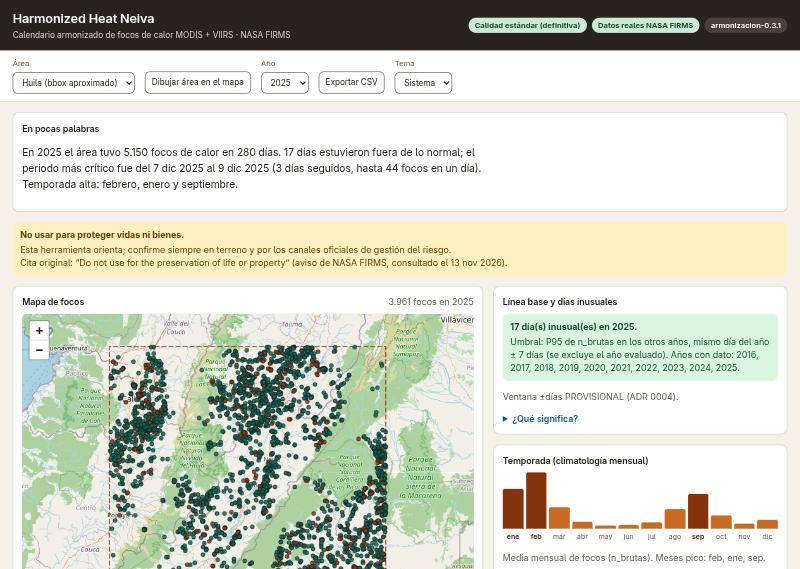
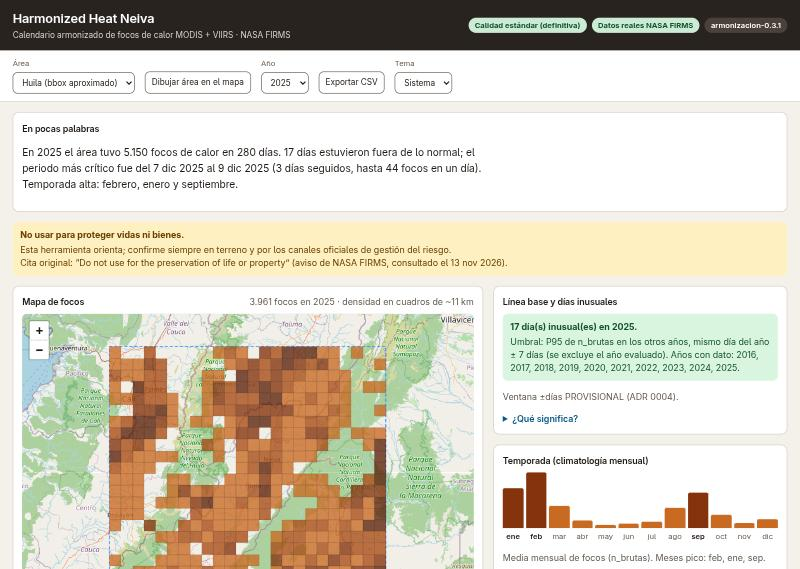
Retoma las capturas con la rejilla de densidad del mapa

diff --git a/docs/capturas/LEEME.md b/docs/capturas/LEEME.md
@@ -16,7 +16,7 @@ Para regenerarlas: `make api` y abrir http://127.0.0.1:8000. Para la cuarta: `uv
 
 Las cuatro capturas anteriores muestran la interfaz H4: solo tema claro y sin insignia de origen de los datos. **Deben retomarse** con la interfaz H6 (tema claro y oscuro, insignia de origen, resumen en lenguaje sencillo y calendario accesible).
 
-Las capturas con datos reales de la sección final (`05_real_*` a `08_real_*`) ya muestran la interfaz H6. De los nombres previstos en esta tabla, `06_datos_reales_*` ya está cubierto por `05_real_claro.jpg` y `06_real_oscuro.jpg`; `05_movil_375_*` es para la demo sintética: al tomarlas, usa otro prefijo numérico (p. ej. `09_`) para no confundirlas con las existentes. Las capturas `05`–`08` son anteriores a la rejilla de densidad del mapa (auditoría UI/UX): conviene retomarlas antes de presentar.
+Las capturas con datos reales de la sección final (`05_real_*` a `08_real_*`) ya muestran la interfaz H6. De los nombres previstos en esta tabla, `06_datos_reales_*` ya está cubierto por `05_real_claro.jpg` y `06_real_oscuro.jpg`; `05_movil_375_*` es para la demo sintética: al tomarlas, usa otro prefijo numérico (p. ej. `10_`) para no confundirlas con las existentes. Las capturas `05`–`09` se retomaron el 2026-11-14 con la rejilla de densidad del mapa (auditoría UI/UX).
 
 | archivo | qué muestra | estado |
 |---|---|---|
@@ -40,13 +40,16 @@ Las capturas con datos reales de la sección final (`05_real_*` a `08_real_*`) y
 - **Datos.** `05` y `01`–`04` con `make api` (datos sintéticos, insignia «DATOS SINTÉTICOS (demostración)»). Para `06`, `make api-real` en otra terminal, con `data/processed/huila_real` ya generado.
 - **Registro en cada archivo.** Anotar la fecha de la captura, la versión de reglas que muestra la insignia (`armonizacion-0.3.1` o la que aparezca) y el origen de los datos (sintético o real NASA FIRMS). Añadir estos datos en la tabla de arriba al completar cada captura.
 
-## Capturas con datos reales (ruta pública, ADR 0009), 2026-11-13
+## Capturas con datos reales (ruta pública, ADR 0009), retomadas el 2026-11-14
 
-Datos **reales** de NASA FIRMS, calidad estándar, Huila 2025 (`make real` y `make api-real`). Interfaz H6.
+Datos **reales** de NASA FIRMS, calidad estándar, Huila 2025 (`make real` y `make api-real`). Interfaz H6 con las correcciones de la auditoría UI/UX: mapa en Canvas con rejilla de densidad y leyenda numérica.
 
 | archivo | qué muestra |
 |---|---|
-| `05_real_claro.jpg` | Tema claro: resumen en lenguaje sencillo, insignias «Calidad estándar» y «Datos reales NASA FIRMS», aviso de FIRMS y mapa. |
-| `06_real_oscuro.jpg` | El mismo contenido en tema oscuro, con teselas oscurecidas. |
-| `07_real_comparacion.jpg` | Comparación de 2025 con el promedio histórico mensual y periodos críticos con fecha ISO. |
-| `08_real_movil_oscuro.jpg` | 375 px en oscuro, sin desplazamiento horizontal. |
+| `05_real_claro.jpg` | Tema claro: resumen en lenguaje sencillo, insignias «Calidad estándar» y «Datos reales NASA FIRMS», aviso de FIRMS y mapa con densidad en cuadros de ~11 km. |
+| `06_real_oscuro.jpg` | El mismo contenido en tema oscuro, con teselas oscurecidas (en oscuro, más claro = más focos). |
+| `07_real_comparacion.jpg` | Oscuro: temporada, comparación de 2025 con el promedio histórico mensual y periodos críticos con fecha ISO. |
+| `08_real_movil_oscuro.jpg` | 375 px en oscuro: mapa de densidad y su explicación, sin desplazamiento horizontal. |
+| `09_real_calendario_oscuro.jpg` | Oscuro: calendario 2025 con leyenda numérica («0 · 1–3 · 4–7 · 8–20 · 21+ focos por día»), días inusuales e incertidumbre bajo el mapa. |
+
+Pendiente: la vista de un día con la huella de cada foco sobre la rejilla nueva. No se pudo capturar en esta sesión porque el panel del navegador estaba en segundo plano y el lienzo del mapa no se repintaba al hacer zoom. Para tomarla: `make api-real`, elegir un día en el calendario (p. ej. el 15 sep 2024) y acercar el mapa. La captura `03_dia_seleccionado_huella.jpg` (demo sintética) muestra la misma idea con la versión anterior del mapa.
